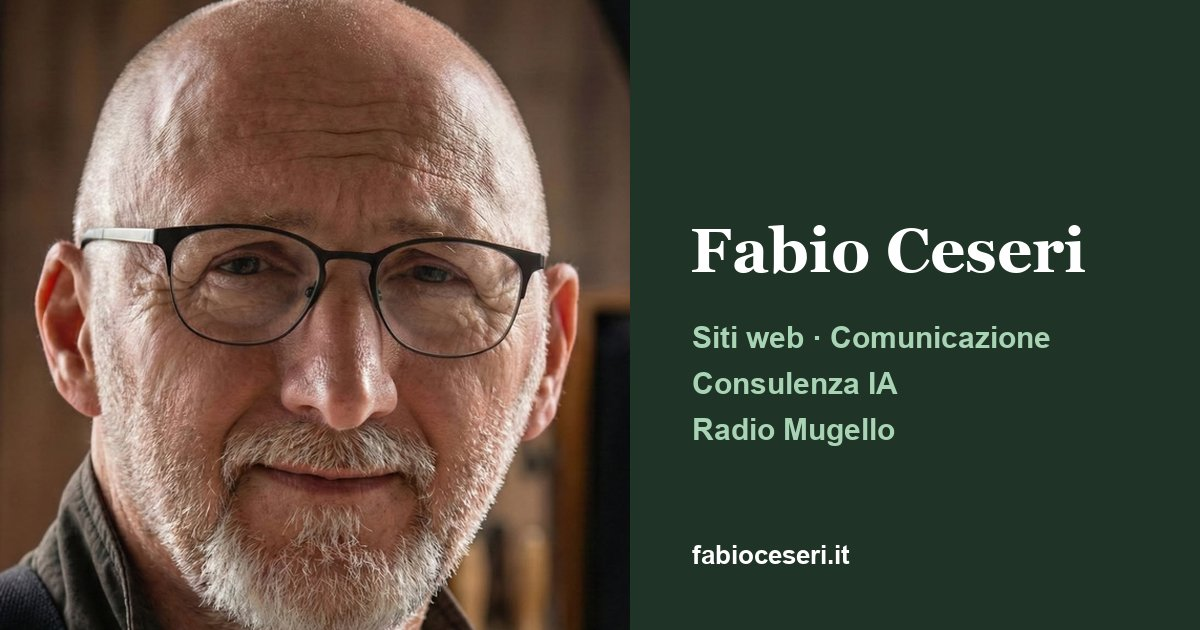
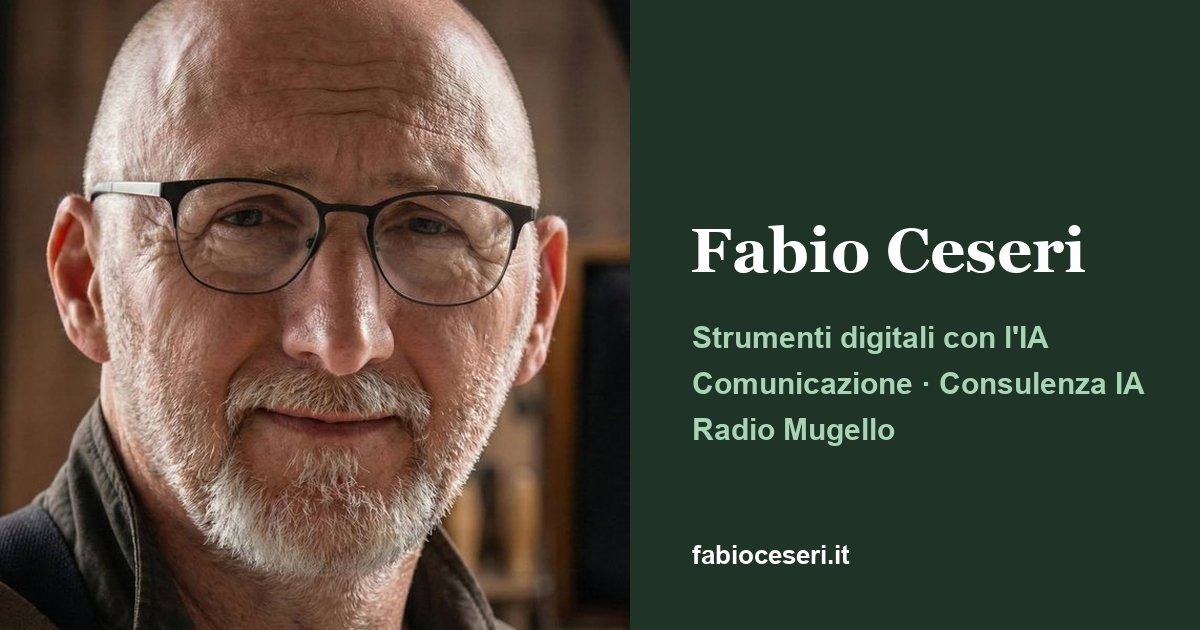
Aggiornamento 12/10/2026 15:40

Changed region(s): [[0.0, 0.0, 0.5242, 1.0], [0.5858, 0.5127, 0.9558, 0.6333], [0.0, 0.0302, 0.0308, 0.181]]

diff --git a/index.html b/index.html
@@ -3,8 +3,8 @@
 <head>
 <meta charset="utf-8">
 <meta name="viewport" content="width=device-width,initial-scale=1">
-<title>Fabio Ceseri · Siti web, comunicazione e consulenza IA in Mugello</title>
-<meta name="description" content="Redattore di Radio Mugello, siti web, comunicazione e consulenza IA. Progetti digitali per il Mugello: viabilità, salute, calcio, eventi.">
+<title>Fabio Ceseri · Strumenti digitali, comunicazione e consulenza IA in Mugello</title>
+<meta name="description" content="Redattore di Radio Mugello, strumenti digitali con l'IA, comunicazione e consulenza IA. Progetti digitali per il Mugello: viabilità, salute, calcio, eventi.">
 <link rel="canonical" href="https://fabioceseri.it/">
 <meta name="theme-color" content="#2f6b45">
 <link rel="icon" type="image/png" sizes="32x32" href="img/icona-32.png">
@@ -13,14 +13,14 @@
 <meta property="og:type" content="profile">
 <meta property="og:locale" content="it_IT">
 <meta property="og:site_name" content="Fabio Ceseri">
-<meta property="og:title" content="Fabio Ceseri · Siti web, comunicazione e consulenza IA in Mugello">
-<meta property="og:description" content="Redattore di Radio Mugello, siti web, comunicazione e consulenza IA. Progetti digitali per il Mugello: viabilità, salute, calcio, eventi.">
+<meta property="og:title" content="Fabio Ceseri · Strumenti digitali, comunicazione e consulenza IA in Mugello">
+<meta property="og:description" content="Redattore di Radio Mugello, strumenti digitali con l'IA, comunicazione e consulenza IA. Progetti digitali per il Mugello: viabilità, salute, calcio, eventi.">
 <meta property="og:url" content="https://fabioceseri.it/">
 <meta property="og:image" content="https://fabioceseri.it/img/anteprima.jpg">
 <meta property="og:image:width" content="1200">
 <meta property="og:image:height" content="630">
 <meta name="twitter:card" content="summary_large_image">
-<script type="application/ld+json">{"@context": "https://schema.org", "@graph": [{"@type": "ProfilePage", "@id": "https://fabioceseri.it/", "url": "https://fabioceseri.it/", "name": "Fabio Ceseri", "inLanguage": "it", "mainEntity": {"@id": "https://fabioceseri.it/#fabio"}}, {"@type": "Person", "@id": "https://fabioceseri.it/#fabio", "name": "Fabio Ceseri", "url": "https://fabioceseri.it/", "image": "https://fabioceseri.it/img/fabio.jpg", "jobTitle": ["Redattore", "Consulente IA"], "worksFor": {"@type": "Organization", "name": "Radio Mugello", "url": "https://www.radiomugello.it/"}, "birthPlace": {"@type": "Place", "name": "Borgo San Lorenzo"}, "homeLocation": {"@type": "Place", "name": "Mugello, Toscana"}, "knowsAbout": ["Siti web", "Comunicazione", "Intelligenza artificiale", "Mugello"], "email": "mailto:ceseri@gmail.com", "sameAs": ["https://www.facebook.com/fabio.ceseri/", "https://www.instagram.com/fabionemugello/", "https://artigianodelweb.substack.com/"], "memberOf": {"@type": "OrganizationRole", "roleName": "Dirigente", "memberOf": {"@type": "PoliticalParty", "name": "Fratelli d'Italia"}}}, {"@type": "WebSite", "@id": "https://fabioceseri.it/#sito", "url": "https://fabioceseri.it/", "name": "Fabio Ceseri", "inLanguage": "it", "publisher": {"@id": "https://fabioceseri.it/#fabio"}}]}</script>
+<script type="application/ld+json">{"@context": "https://schema.org", "@graph": [{"@type": "ProfilePage", "@id": "https://fabioceseri.it/", "url": "https://fabioceseri.it/", "name": "Fabio Ceseri", "inLanguage": "it", "mainEntity": {"@id": "https://fabioceseri.it/#fabio"}}, {"@type": "Person", "@id": "https://fabioceseri.it/#fabio", "name": "Fabio Ceseri", "url": "https://fabioceseri.it/", "image": "https://fabioceseri.it/img/fabio.jpg", "jobTitle": ["Redattore", "Consulente IA"], "worksFor": {"@type": "Organization", "name": "Radio Mugello", "url": "https://www.radiomugello.it/"}, "birthPlace": {"@type": "Place", "name": "Borgo San Lorenzo"}, "homeLocation": {"@type": "Place", "name": "Mugello, Toscana"}, "knowsAbout": ["Strumenti digitali", "Comunicazione", "Intelligenza artificiale", "Mugello"], "email": "mailto:ceseri@gmail.com", "sameAs": ["https://www.facebook.com/fabio.ceseri/", "https://www.instagram.com/fabionemugello/", "https://artigianodelweb.substack.com/"], "memberOf": {"@type": "OrganizationRole", "roleName": "Dirigente", "memberOf": {"@type": "PoliticalParty", "name": "Fratelli d'Italia"}}}, {"@type": "WebSite", "@id": "https://fabioceseri.it/#sito", "url": "https://fabioceseri.it/", "name": "Fabio Ceseri", "inLanguage": "it", "publisher": {"@id": "https://fabioceseri.it/#fabio"}}]}</script>
 <link rel="stylesheet" href="style.css">
 </head>
 <body class="professionale">
@@ -38,7 +38,7 @@
 <div class="copertina"><img src="img/copertina.jpg" alt="Borgo San Lorenzo" width="1578" height="592" fetchpriority="high"></div>
 <div class="hero">
   <div>
-  <p class="occhiello">Siti web · Comunicazione · Consulenza IA</p>
+  <p class="occhiello">Strumenti digitali · Comunicazione · Consulenza IA</p>
   <h1>Fabio Ceseri</h1>
   <p class="bio">Sono nato a Borgo San Lorenzo e vivo in Mugello. Sono redattore di <strong>Radio Mugello</strong>, dove curo il sito della radio e faccio le radiocronache del calcio dilettantistico. Realizzo strumenti digitali con l'ausilio dell'intelligenza artificiale. Sono anche consulente IA.</p>
   </div>
@@ -46,7 +46,7 @@
 </div>
 <section class="blocco">
   <h2>Cosa faccio</h2>
-  <div><ul class="elenco"><li><div class="riga"><span class="titolo">Gestione siti web</span><span class="desc">Realizzazione e cura di siti e app web: dal dominio alla pubblicazione, agli aggiornamenti nel tempo.</span></div></li><li><div class="riga"><span class="titolo">Comunicazione</span><span class="desc">Testi, comunicati stampa, articoli e contenuti per il web e i social.</span></div></li><li><div class="riga"><span class="titolo">Consulenza IA</span><span class="desc">Come usare l'intelligenza artificiale nel lavoro di ogni giorno: strumenti, automazioni, organizzazione.</span></div></li></ul></div>
+  <div><ul class="elenco"><li><div class="riga"><span class="titolo">Strumenti digitali</span><span class="desc">App, mappe e siti su misura, realizzati con l'ausilio dell'intelligenza artificiale: dall'idea alla pubblicazione, agli aggiornamenti nel tempo.</span></div></li><li><div class="riga"><span class="titolo">Comunicazione</span><span class="desc">Testi, comunicati stampa, articoli e contenuti per il web e i social.</span></div></li><li><div class="riga"><span class="titolo">Consulenza IA</span><span class="desc">Come usare l'intelligenza artificiale nel lavoro di ogni giorno: strumenti, automazioni, organizzazione.</span></div></li></ul></div>
 </section>
 <section class="blocco">
   <h2>Progetti</h2>

diff --git a/politica.html b/politica.html
@@ -20,7 +20,7 @@
 <meta property="og:image:width" content="1200">
 <meta property="og:image:height" content="630">
 <meta name="twitter:card" content="summary_large_image">
-<script type="application/ld+json">{"@context": "https://schema.org", "@graph": [{"@type": "ProfilePage", "@id": "https://fabioceseri.it/politica.html", "url": "https://fabioceseri.it/politica.html", "name": "Fabio Ceseri · Politica", "inLanguage": "it", "mainEntity": {"@id": "https://fabioceseri.it/#fabio"}, "isPartOf": {"@id": "https://fabioceseri.it/#sito"}}, {"@type": "Person", "@id": "https://fabioceseri.it/#fabio", "name": "Fabio Ceseri", "url": "https://fabioceseri.it/", "image": "https://fabioceseri.it/img/fabio-politica.jpg", "jobTitle": ["Redattore", "Consulente IA"], "worksFor": {"@type": "Organization", "name": "Radio Mugello", "url": "https://www.radiomugello.it/"}, "birthPlace": {"@type": "Place", "name": "Borgo San Lorenzo"}, "homeLocation": {"@type": "Place", "name": "Mugello, Toscana"}, "knowsAbout": ["Siti web", "Comunicazione", "Intelligenza artificiale", "Mugello"], "email": "mailto:ceseri@gmail.com", "sameAs": ["https://www.facebook.com/fabio.ceseri/", "https://www.instagram.com/fabionemugello/", "https://artigianodelweb.substack.com/"], "memberOf": {"@type": "OrganizationRole", "roleName": "Dirigente", "memberOf": {"@type": "PoliticalParty", "name": "Fratelli d'Italia"}}}]}</script>
+<script type="application/ld+json">{"@context": "https://schema.org", "@graph": [{"@type": "ProfilePage", "@id": "https://fabioceseri.it/politica.html", "url": "https://fabioceseri.it/politica.html", "name": "Fabio Ceseri · Politica", "inLanguage": "it", "mainEntity": {"@id": "https://fabioceseri.it/#fabio"}, "isPartOf": {"@id": "https://fabioceseri.it/#sito"}}, {"@type": "Person", "@id": "https://fabioceseri.it/#fabio", "name": "Fabio Ceseri", "url": "https://fabioceseri.it/", "image": "https://fabioceseri.it/img/fabio-politica.jpg", "jobTitle": ["Redattore", "Consulente IA"], "worksFor": {"@type": "Organization", "name": "Radio Mugello", "url": "https://www.radiomugello.it/"}, "birthPlace": {"@type": "Place", "name": "Borgo San Lorenzo"}, "homeLocation": {"@type": "Place", "name": "Mugello, Toscana"}, "knowsAbout": ["Strumenti digitali", "Comunicazione", "Intelligenza artificiale", "Mugello"], "email": "mailto:ceseri@gmail.com", "sameAs": ["https://www.facebook.com/fabio.ceseri/", "https://www.instagram.com/fabionemugello/", "https://artigianodelweb.substack.com/"], "memberOf": {"@type": "OrganizationRole", "roleName": "Dirigente", "memberOf": {"@type": "PoliticalParty", "name": "Fratelli d'Italia"}}}]}</script>
 <link rel="stylesheet" href="style.css">
 </head>
 <body class="politica">
